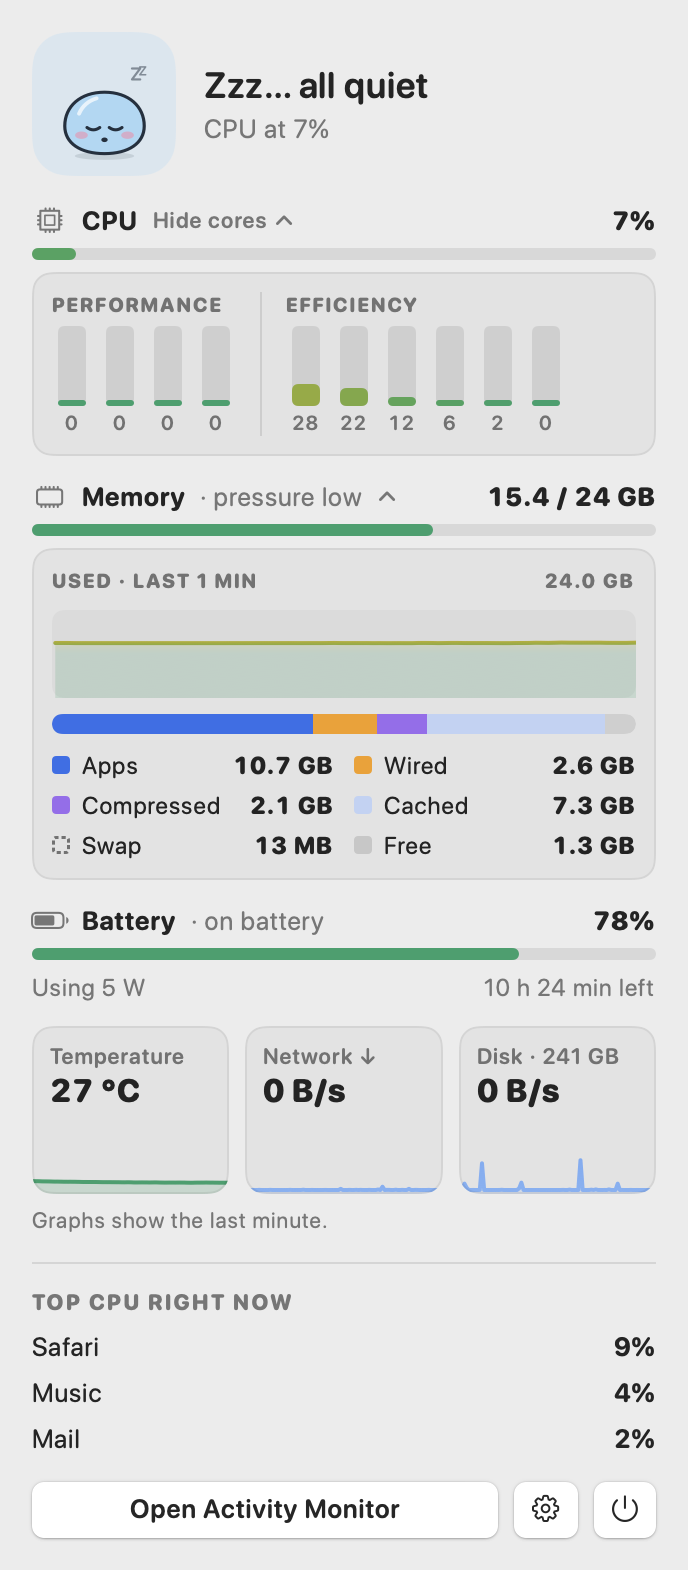
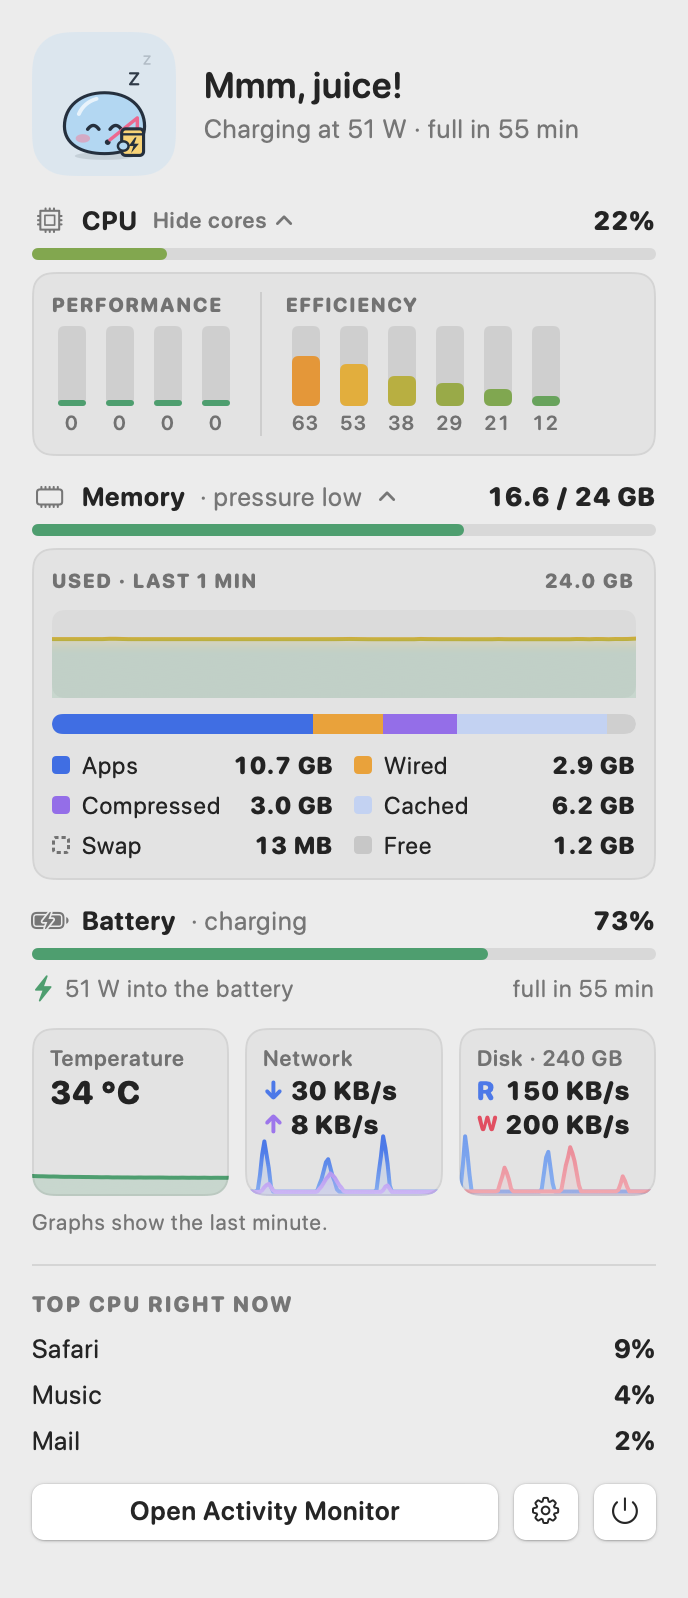
Blipp 1.2.0: both directions of network and disk traffic
- The network tile shows download and upload, and the disk tile reads and
  writes: one row each, with both graphs overlaid on one shared scale.
  Network is blue and violet, disk blue and rose.
- Speeds from 100 MB/s up drop the decimal ("176 MB/s"), so they fit.
- The README pictures use example traffic (like the example processes) and
  the README describes the new tiles.
- The GPL now ships inside the app bundle.

diff --git a/Sources/Blipp/UI/PanelView.swift b/Sources/Blipp/UI/PanelView.swift
@@ -156,8 +156,6 @@ struct PanelView: View {
 
     private func tiles(_ s: Snapshot) -> some View {
         let graphs = monitor.graphs
-        let networkPeak = max(graphs.networkDown.map(\.value).max() ?? 0, 1_000_000) * 1.15
-        let diskPeak = max(graphs.diskIO.map(\.value).max() ?? 0, 10_000_000) * 1.15
         return VStack(alignment: .leading, spacing: 6) {
             HStack(spacing: 8) {
                 GraphTile(
@@ -166,18 +164,19 @@ struct PanelView: View {
                     points: graphs.temperature, range: 20...100, scale: .temperature
                 )
                 .help("Thermal state: \(s.thermal.title)")
-                GraphTile(
-                    title: "Network ↓",
-                    value: Format.rate(s.networkDown),
-                    points: graphs.networkDown, range: 0...networkPeak, scale: .network
+                TrafficTile(
+                    title: "Network",
+                    first: .init(label: "↓", name: "Download", rate: s.networkDown, points: graphs.networkDown, scale: .network, color: HeatScale.blueMid),
+                    second: .init(label: "↑", name: "Upload", rate: s.networkUp, points: graphs.networkUp, scale: .upload, color: HeatScale.violetMid),
+                    floor: 1_000_000
                 )
-                .help("Upload: \(Format.rate(s.networkUp))")
-                GraphTile(
+                TrafficTile(
                     title: "Disk · \(Format.diskSpace(s.diskFree))",
-                    value: Format.rate(s.diskIO),
-                    points: graphs.diskIO, range: 0...diskPeak, scale: .disk
+                    first: .init(label: "R", name: "Read", rate: s.diskRead, points: graphs.diskRead, scale: .diskRead, color: HeatScale.blueMid),
+                    second: .init(label: "W", name: "Write", rate: s.diskWrite, points: graphs.diskWrite, scale: .diskWrite, color: HeatScale.roseMid),
+                    floor: 10_000_000
                 )
-                .help("Read \(Format.rate(s.diskRead)) · Write \(Format.rate(s.diskWrite)) · \(Format.diskSpace(s.diskFree)) free")
+                .help("\(Format.diskSpace(s.diskFree)) free on the startup disk")
             }
             Text("Graphs show the last \(Preferences.spanTitle(prefs.graphSpan, short: false)).")
                 .font(.system(size: 11, design: .rounded))
@@ -649,6 +648,70 @@ private struct GraphTile: View {
         .frame(height: 84)
         .modifier(CardStyle())
         .accessibilityElement(children: .combine)
+    }
+}
+
+/// Two directions of traffic (download and upload, reads and writes): one row each, and both
+/// graphs overlaid on one shared scale, so their heights compare directly.
+private struct TrafficTile: View {
+    struct Direction {
+        let label: String
+        let name: String
+        let rate: Double
+        let points: [GraphPoint]
+        let scale: HeatScale
+        let color: UInt32
+    }
+
+    let title: String
+    /// Drawn underneath.
+    let first: Direction
+    let second: Direction
+    /// The graph's top never drops below this, so idle noise stays flat.
+    let floor: Double
+
+    var body: some View {
+        let peak = max(first.points.map(\.value).max() ?? 0, second.points.map(\.value).max() ?? 0, floor) * 1.15
+        ZStack(alignment: .topLeading) {
+            VStack {
+                Spacer(minLength: 0)
+                ZStack {
+                    Sparkline(points: first.points, range: 0...peak, scale: first.scale)
+                    Sparkline(points: second.points, range: 0...peak, scale: second.scale)
+                }
+                .frame(height: 36)
+            }
+            VStack(alignment: .leading, spacing: 1) {
+                Text(title)
+                    .font(.system(size: 11, weight: .semibold, design: .rounded))
+                    .foregroundStyle(.secondary)
+                    .lineLimit(1)
+                    .minimumScaleFactor(0.8)
+                row(first)
+                row(second)
+            }
+            .padding(.horizontal, 9)
+            .padding(.top, 8)
+        }
+        .frame(maxWidth: .infinity)
+        .frame(height: 84)
+        .modifier(CardStyle())
+        .accessibilityElement(children: .combine)
+    }
+
+    private func row(_ direction: Direction) -> some View {
+        HStack(spacing: 3) {
+            Text(direction.label)
+                .foregroundStyle(Color(hex: direction.color))
+                .frame(width: 11, alignment: .leading)
+            Text(Format.rate(direction.rate))
+        }
+        .font(.system(size: 13, weight: .heavy, design: .rounded))
+        .monospacedDigit()
+        .lineLimit(1)
+        .minimumScaleFactor(0.7)
+        .accessibilityElement(children: .ignore)
+        .accessibilityLabel("\(direction.name) \(Format.rate(direction.rate))")
     }
 }
 

diff --git a/Sources/Blipp/Monitor/SystemMonitor.swift b/Sources/Blipp/Monitor/SystemMonitor.swift
@@ -49,8 +49,10 @@ final class SystemMonitor: ObservableObject {
     private lazy var network = NetworkSampler(queue: queue)
     private var cpuSeries = Series(maxAge: 30)
     private var temperatureSeries = Series()
-    private var networkSeries = Series()
-    private var diskSeries = Series()
+    private var downloadSeries = Series()
+    private var uploadSeries = Series()
+    private var readSeries = Series()
+    private var writeSeries = Series()
     private var memorySeries = Series()
     private var lastProcessScan: TimeInterval = -.infinity
     private var topProcesses: [ProcessUsage] = []
@@ -60,6 +62,8 @@ final class SystemMonitor: ObservableObject {
     private var span: TimeInterval = 60
     /// Only for rendering README pictures: shown instead of the real process list.
     private var exampleProcesses: [ProcessUsage]?
+    /// Only for rendering README pictures: network and disk speeds for a given uptime.
+    private var exampleTraffic: ((TimeInterval) -> (down: Double, up: Double, read: Double, write: Double))?
 
     // Only touched on the main thread.
     private let moodEngine = MoodEngine()
@@ -124,6 +128,12 @@ final class SystemMonitor: ObservableObject {
     /// so nobody's own apps end up in them; the app itself never calls this.
     func useExampleProcesses(_ processes: [ProcessUsage]) {
         queue.async { [weak self] in self?.exampleProcesses = processes }
+    }
+
+    /// Shows made-up network and disk traffic instead of this Mac's. Used when rendering README
+    /// pictures, so the graphs have something to show; the app itself never calls this.
+    func useExampleTraffic(_ traffic: @escaping (TimeInterval) -> (down: Double, up: Double, read: Double, write: Double)) {
+        queue.async { [weak self] in self?.exampleTraffic = traffic }
     }
 
     /// The panel shows graphs, processes and live battery details, so it gets them at full rate.
@@ -237,6 +247,9 @@ final class SystemMonitor: ObservableObject {
         next.diskWrite = io.write
         next.diskFree = io.free
         next.diskTotal = io.total
+        if let example = exampleTraffic?(now) {
+            (next.networkDown, next.networkUp, next.diskRead, next.diskWrite) = example
+        }
 
         // Scanning every process is the most expensive part: at most once a second with the
         // panel open, every few seconds otherwise (it only feeds text).
@@ -250,8 +263,10 @@ final class SystemMonitor: ObservableObject {
         if let celsius = next.temperature {
             temperatureSeries.append(celsius, at: now)
         }
-        networkSeries.append(next.networkDown, at: now)
-        diskSeries.append(next.diskIO, at: now)
+        downloadSeries.append(next.networkDown, at: now)
+        uploadSeries.append(next.networkUp, at: now)
+        readSeries.append(next.diskRead, at: now)
+        writeSeries.append(next.diskWrite, at: now)
         memorySeries.append(next.memory.used, at: now)
 
         let smoothed = cpuSeries.average(since: now - 5) ?? load.total
@@ -269,8 +284,10 @@ final class SystemMonitor: ObservableObject {
     private func makeGraphs(now: TimeInterval) -> Graphs {
         Graphs(
             temperature: temperatureSeries.points(span: span, now: now),
-            networkDown: networkSeries.points(span: span, now: now),
-            diskIO: diskSeries.points(span: span, now: now),
+            networkDown: downloadSeries.points(span: span, now: now),
+            networkUp: uploadSeries.points(span: span, now: now),
+            diskRead: readSeries.points(span: span, now: now),
+            diskWrite: writeSeries.points(span: span, now: now),
             memoryUsed: memorySeries.points(span: span, now: now)
         )
     }

diff --git a/Sources/Blipp/UI/HeatScale.swift b/Sources/Blipp/UI/HeatScale.swift
@@ -76,10 +76,18 @@ struct HeatScale {
     static let blueLight: UInt32 = 0x7FB2F5
     static let blueMid: UInt32 = 0x3D7BF0
     static let blueDark: UInt32 = 0x3451C7
+    static let violetLight: UInt32 = 0xD3B8FA
+    static let violetMid: UInt32 = 0xA474F2
+    static let violetDark: UInt32 = 0x7A45D8
+    static let roseLight: UInt32 = 0xFDA4AF
+    static let roseMid: UInt32 = 0xF43F5E
+    static let roseDark: UInt32 = 0xBE123C
 
     static let cpu = HeatScale([(0, green), (50, yellow), (75, orange), (95, red)])
     static let temperature = HeatScale([(45, green), (62, yellow), (78, orange), (92, red)])
     static let memoryFraction = HeatScale([(0.5, green), (0.7, yellow), (0.85, orange), (0.97, red)])
     static let network = HeatScale([(0, blueLight), (3_000_000, blueMid), (20_000_000, blueDark)])
-    static let disk = HeatScale([(0, blueLight), (50_000_000, blueMid), (300_000_000, blueDark)])
+    static let upload = HeatScale([(0, violetLight), (3_000_000, violetMid), (20_000_000, violetDark)])
+    static let diskRead = HeatScale([(0, blueLight), (50_000_000, blueMid), (300_000_000, blueDark)])
+    static let diskWrite = HeatScale([(0, roseLight), (50_000_000, roseMid), (300_000_000, roseDark)])
 }

diff --git a/Sources/Blipp/App/ReadmeImages.swift b/Sources/Blipp/App/ReadmeImages.swift
@@ -129,6 +129,20 @@ enum ReadmeImages {
             ProcessUsage(pid: 2, name: "Music", cpu: 4),
             ProcessUsage(pid: 3, name: "Mail", cpu: 2),
         ])
+        // A few downloads with a little upload alongside, and disk bursts, quiet at the end so
+        // Blipp's mood in the picture isn't about traffic.
+        let start = ProcessInfo.processInfo.systemUptime
+        monitor.useExampleTraffic { now in
+            let t = now - start
+            func burst(_ at: Double, _ width: Double, _ height: Double) -> Double {
+                max(0, 1 - abs(t - at) / width) * height
+            }
+            let down = 30_000 + burst(12, 2, 3_800_000) + burst(31, 3, 2_400_000) + burst(48, 2, 4_500_000)
+            let up = 8_000 + burst(13, 2, 600_000) + burst(32, 4, 1_400_000) + burst(49, 1.5, 500_000)
+            let read = 150_000 + burst(8, 1.5, 22_000_000) + burst(33, 2, 14_000_000)
+            let write = 200_000 + burst(20, 2, 9_000_000) + burst(40, 3, 16_000_000) + burst(56, 1.5, 6_000_000)
+            return (down, up, read, write)
+        }
         monitor.setPanelVisible(true)
         RunLoop.main.run(until: Date().addingTimeInterval(65))
 

diff --git a/Sources/Blipp/UI/Format.swift b/Sources/Blipp/UI/Format.swift
@@ -27,7 +27,9 @@ enum Format {
         switch bytesPerSecond {
         case ..<1_000: return "\(Int(bytesPerSecond.rounded())) B/s"
         case ..<1_000_000: return String(format: "%.0f KB/s", bytesPerSecond / 1_000)
-        case ..<1_000_000_000: return String(format: "%.1f MB/s", bytesPerSecond / 1_000_000)
+        case ..<100_000_000: return String(format: "%.1f MB/s", bytesPerSecond / 1_000_000)
+        // Whole megabytes from 100 up, so "176 MB/s" fits a tile without being squeezed.
+        case ..<1_000_000_000: return String(format: "%.0f MB/s", bytesPerSecond / 1_000_000)
         default: return String(format: "%.2f GB/s", bytesPerSecond / 1_000_000_000)
         }
     }

diff --git a/Sources/Blipp/Monitor/Models.swift b/Sources/Blipp/Monitor/Models.swift
@@ -104,7 +104,9 @@ struct GraphPoint: Equatable {
 struct Graphs: Equatable {
     var temperature: [GraphPoint] = []
     var networkDown: [GraphPoint] = []
-    var diskIO: [GraphPoint] = []
+    var networkUp: [GraphPoint] = []
+    var diskRead: [GraphPoint] = []
+    var diskWrite: [GraphPoint] = []
     var memoryUsed: [GraphPoint] = []
 }
 

diff --git a/README.md b/README.md
@@ -36,6 +36,7 @@ Click him for a panel with the numbers behind his mood:
   (apps, wired, compressed, cached, swap, free).
 - **Battery:** charge, charging power in watts and time to full or empty. It also notices your charge limit.
 - **Temperature, network and disk:** live values with graphs whose color follows the value.
+  Network shows download and upload, and disk shows reads and writes, overlaid on one graph.
 - **Top processes:** what's using the most CPU right now, counted like Activity Monitor.
 
 ## Install
